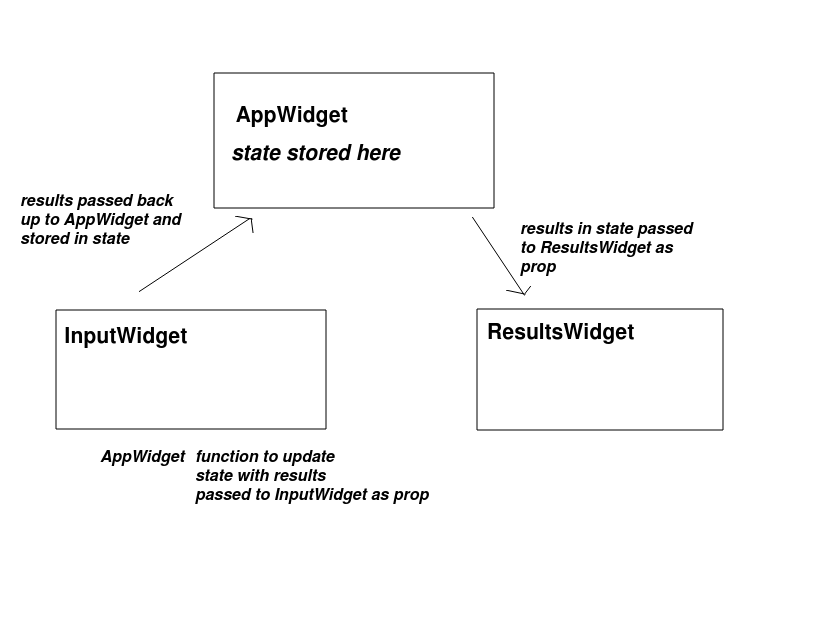
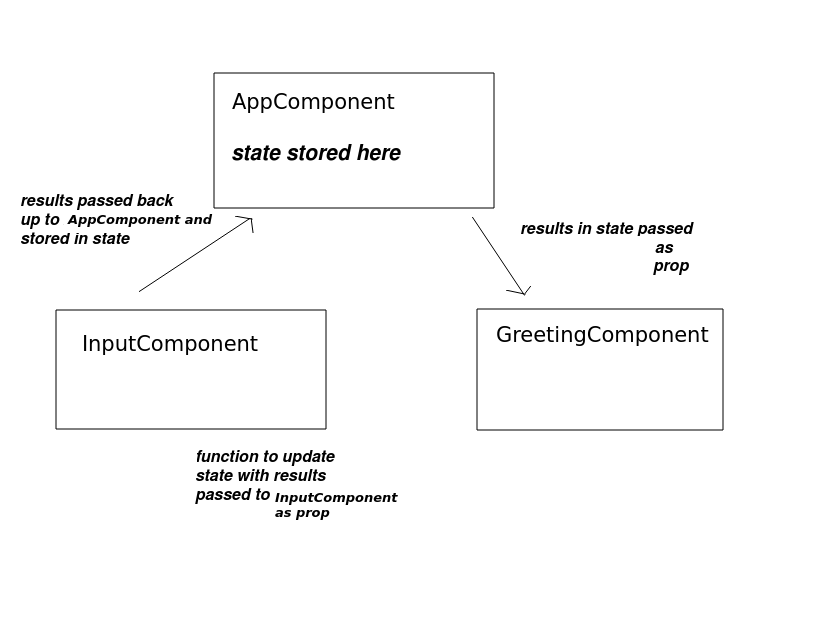
COM623 week 3 further updates

diff --git a/COM623/sessions/week_3/index.md b/COM623/sessions/week_3/index.md
@@ -57,7 +57,7 @@ function InteractiveGreeting() {
 export default InteractiveGreeting; 
 ```
 
-Note how the text field now has an `onChange` event handler, which is the updateStateName()` method of the component. In `updateStateName()` we use the `setName()` method, remember that when we create the hook we obtain a series of variables, the state variable and a setter to update the state with.
+Note how the text field now has an `onChange` event handler, which is the `updateStateName()` function of the component. In `updateStateName()` we use the `setName()` method, remember that when we create the hook we obtain a series of variables, the state variable and a setter to update the state with.
 
 Note that you must use the setter method to update the state; do not modify the state variable directly.
 
@@ -94,7 +94,7 @@ import React from 'react';
 
 let taskId = 1;
 
-function TodoComponent({store}) {
+function TodoComponent({title}) {
     const [todo, setTodo] = React.useState([]);
 
 
@@ -103,7 +103,7 @@ function TodoComponent({store}) {
     return (
             <div>
 
-            <h1>{store}</h1>
+            <h1>{title || 'My Todo List'}</h1>
 
             <div>
             <h2>Add something to your todo list</h2>
@@ -169,6 +169,7 @@ We will illustrate this with a simpler example. This example contains three comp
 - a `GreetingComponent` to show a greeting to the user (using the name input in the `InputComponent`);
 - an `AppComponent` to manage the application as a whole and to store the state. The name entered in the `InputComponent` will be "lifted up" to the `AppComponent`.
 
+#### AppComponent
 
 ```javascript
 import React from 'react';
@@ -192,6 +193,7 @@ function AppComponent({title, defaultName}) {
 export default AppComponent;
 ```
 
+#### InputComponent
 
 ```javascript
 import React from 'react';
@@ -216,6 +218,8 @@ function InputComponent({title, passBackUserInput}) {
 export default InputComponent;
 ```
 
+#### GreetingComponent
+
 ```javascript
 import React from 'react';
 
@@ -229,6 +233,8 @@ export default GreetingComponent;
 ```
 
 What is happening here? The diagram gives a general idea:
+
+![Lifting up state](../../../images/liftingstate.png)
 
 Firstly note the parent component, `AppComponent`. Note that the parent component stores the name in its state. Note how the name is passed down to the two sub-components, `InputComponent` and `GreetingComponent`, as their props. In a similar way to the text field value being tightly bound to the state, this will tightly bind the props of the sub-components to the state of the parent.
 
